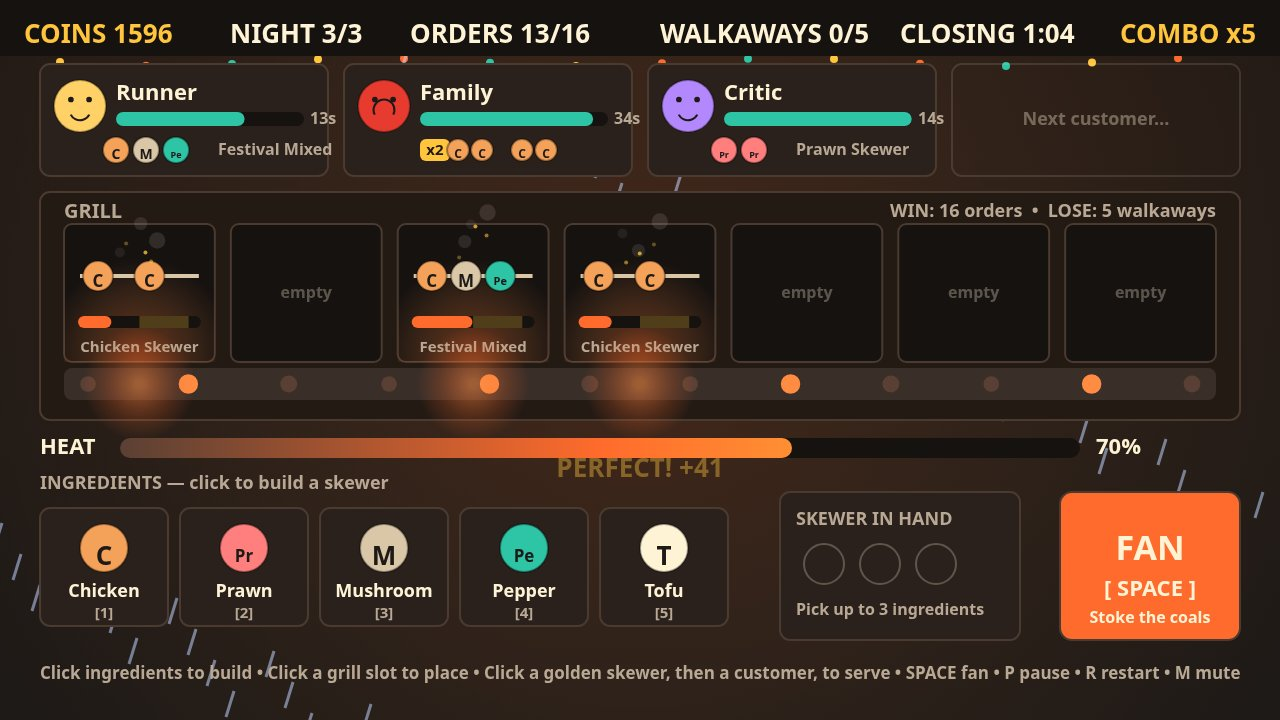
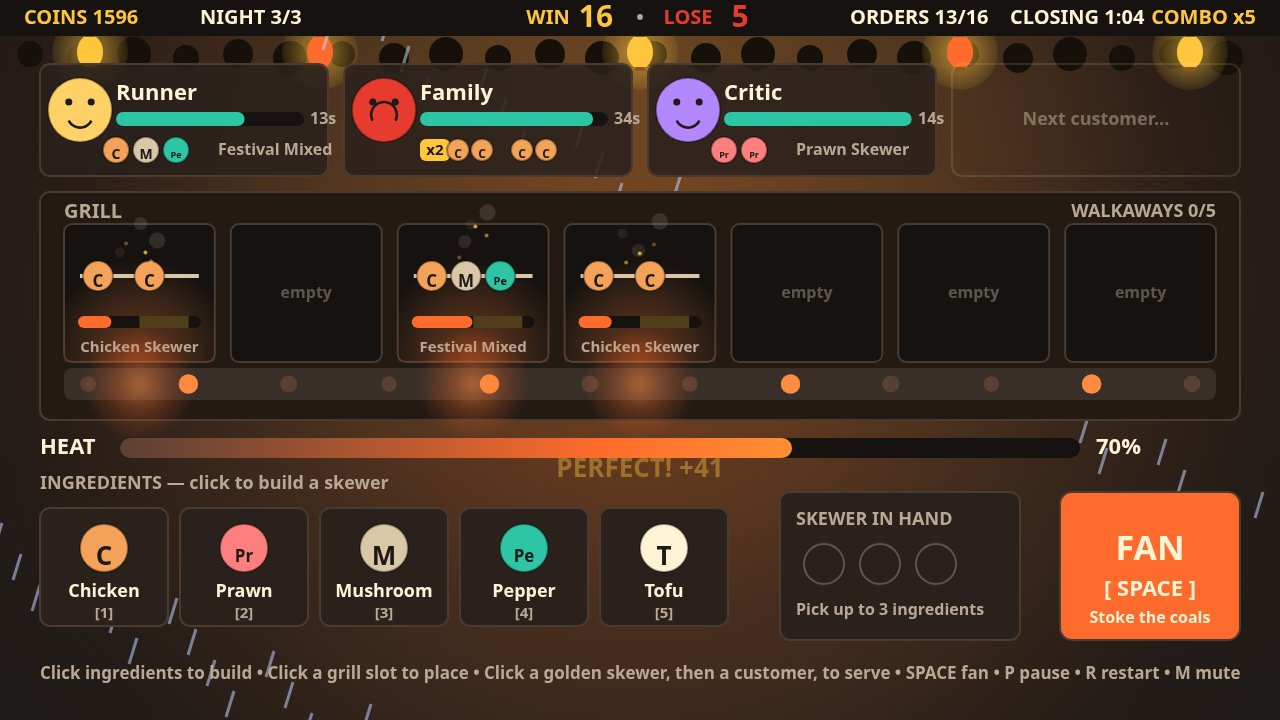
Hero cover rebalance (GLM audit #1 fix): festival mood leads, HUD compressed, WIN/LOSE prominent
- Slim hero HUD (36px): big central WIN 16 • LOSE 5 (numbers 30px, parseable
  in a 2s glance); walkaway count moves to the grill header.
- Hero frieze in the freed strip: paper lanterns with warm glows + a staggered
  crowd of dark silhouettes peeking over the customer row, rain over all.
- Customer cards slightly see-through (lantern glow shows through), faces
  bigger (r26 -> r32); stronger warm bloom so the grill is the focal point.
- Hero composition is gated on state.heroShot, set by shots.js for the rush
  shot only; live game and other shots render exactly as before (02/03/04
  byte-identical re-captures).
- Verified: node --check all 11 OK; autopilot WON 36 orders / 1766 coins /
  combo x5 / perfect 36/36 / burnt 0 / walkaways 0/5 (1766 reproduces exactly);
  live play-test zero console/page errors; main.ts exit 0, dossier text
  76,954 B; makefun check 4 passed / 1 failed (transcripts_present, expected)
  / 14 skipped / 5 at submission.

Changed region(s): [[0.0, 0.0, 1.0, 0.3056], [0.25, 0.5806, 0.75, 0.825]]

diff --git a/game/src/render.js b/game/src/render.js
@@ -1,7 +1,7 @@
 // Drawing only: the run's state and the current screen in, pixels out.
 // The 1280x720 playfield is scaled to fit the window and centred, the margin filled
 // with the backdrop colour. Flat shapes and canvas text for the HUD and the panels.
-import { DONENESS, FIELD, FONT, INGREDIENTS, LAYOUT, NIGHTS, PALETTE, grillSlotRects } from './config.js';
+import { DONENESS, FIELD, FONT, INGREDIENTS, LAYOUT, MAX_WALKAWAYS, NIGHTS, PALETTE, grillSlotRects } from './config.js';
 import { ingredientById, recipeById } from './orders.js';
 import { isBurnt, isGolden } from './grill.js';
 import { handRecipe } from './state.js';
@@ -101,7 +101,7 @@ export function createRenderer(canvas) {
     context.stroke();
   }
 
-  function drawBackdrop(state) {
+  function drawBackdrop(state, hero) {
     // Warm dark night-market backdrop with a soft glow and string lights.
     const g = context.createLinearGradient(0, 0, 0, FIELD.height);
     g.addColorStop(0, '#241b16');
@@ -117,14 +117,72 @@ export function createRenderer(canvas) {
     bloom.addColorStop(1, 'rgba(255,107,44,0)');
     context.fillStyle = bloom;
     context.fillRect(0, 0, FIELD.width, FIELD.height);
-    // String lights across the top, below the HUD.
-    for (let i = 0; i < 14; i += 1) {
-      const x = 60 + i * 86;
-      const y = 62 + Math.sin(i * 1.3) * 4;
-      context.fillStyle = i % 3 === 0 ? PALETTE.gold : i % 3 === 1 ? PALETTE.ember : PALETTE.jade;
-      context.beginPath();
-      context.arc(x, y, 4, 0, Math.PI * 2);
-      context.fill();
+    if (hero) {
+      // Hero cover: the grill is the warm focal point and the top of the frame
+      // glows with lantern light, so the festival mood (not the HUD) carries
+      // the cover. Both sit behind every panel, as the bloom does.
+      const grillGlow = context.createRadialGradient(FIELD.width / 2, 306, 40, FIELD.width / 2, 306, 620);
+      grillGlow.addColorStop(0, 'rgba(255,107,44,0.20)');
+      grillGlow.addColorStop(0.6, 'rgba(255,140,66,0.08)');
+      grillGlow.addColorStop(1, 'rgba(255,107,44,0)');
+      context.fillStyle = grillGlow;
+      context.fillRect(0, 0, FIELD.width, FIELD.height);
+      const topGlow = context.createRadialGradient(FIELD.width / 2, 100, 20, FIELD.width / 2, 100, 520);
+      topGlow.addColorStop(0, 'rgba(255,197,61,0.14)');
+      topGlow.addColorStop(1, 'rgba(255,197,61,0)');
+      context.fillStyle = topGlow;
+      context.fillRect(0, 0, FIELD.width, FIELD.height);
+    }
+    if (hero) {
+      // Hero frieze, in the strip the compressed HUD frees (y 36-64): the
+      // festival crowd behind the stall counter — dark heads peeking over the
+      // customer row, at staggered heights so the row reads as a crowd rather
+      // than a dotted border — with paper lanterns hanging above them.
+      // Deterministic (index-based), so the staged cover is the same every
+      // capture. The string lights are skipped here; the lanterns are the lights.
+      context.fillStyle = '#151009';
+      for (let i = 0; i < 24; i += 1) {
+        const x = 30 + i * 52;
+        const r = 13 + (i % 3) * 2;
+        const y = 54 + (i % 2) * 4;
+        context.beginPath();
+        context.arc(x, y, r, 0, Math.PI * 2);
+        context.fill();
+      }
+      const lanternX = [90, 320, 640, 960, 1190];
+      for (let i = 0; i < lanternX.length; i += 1) {
+        const x = lanternX[i];
+        const glow = context.createRadialGradient(x, 52, 4, x, 52, 44);
+        glow.addColorStop(0, 'rgba(255,197,61,0.55)');
+        glow.addColorStop(1, 'rgba(255,197,61,0)');
+        context.fillStyle = glow;
+        context.beginPath();
+        context.arc(x, 52, 38, 0, Math.PI * 2);
+        context.fill();
+        context.strokeStyle = 'rgba(255,243,214,0.6)';
+        context.lineWidth = 1.5;
+        context.beginPath();
+        context.moveTo(x, 36);
+        context.lineTo(x, 40);
+        context.stroke();
+        context.fillStyle = i % 2 === 0 ? PALETTE.gold : PALETTE.ember;
+        context.beginPath();
+        context.ellipse(x, 52, 13, 17, 0, 0, Math.PI * 2);
+        context.fill();
+        context.fillStyle = '#8a5a20';
+        context.fillRect(x - 5, 33, 10, 4);
+        context.fillRect(x - 5, 67, 10, 4);
+      }
+    } else {
+      // String lights across the top, below the HUD.
+      for (let i = 0; i < 14; i += 1) {
+        const x = 60 + i * 86;
+        const y = 62 + Math.sin(i * 1.3) * 4;
+        context.fillStyle = i % 3 === 0 ? PALETTE.gold : i % 3 === 1 ? PALETTE.ember : PALETTE.jade;
+        context.beginPath();
+        context.arc(x, y, 4, 0, Math.PI * 2);
+        context.fill();
+      }
     }
     // Weather: wind streaks on night 2, rain on night 3.
     if (state.night === 2) {
@@ -154,8 +212,29 @@ export function createRenderer(canvas) {
     }
   }
 
-  function drawHud(state) {
+  function drawHud(state, hero) {
     const h = LAYOUT.hud;
+    if (hero) {
+      // Hero cover: a slim bar (36px, not 56). The win/lose stakes are the
+      // centrepiece, in big numbers a 2-second glance can parse — WIN 16 •
+      // LOSE 5 — instead of a dense small line in the grill header. The
+      // walkaway count moves to the grill header, so nothing is lost.
+      context.fillStyle = '#161210';
+      context.fillRect(h.x, h.y, h.w, 36);
+      text(`COINS ${state.coins}`, 24, 18, 20, PALETTE.gold, 'left', 'middle');
+      text(`NIGHT ${state.night}/3`, 200, 18, 20, PALETTE.text, 'left', 'middle');
+      text('WIN', 548, 18, 20, PALETTE.gold, 'center', 'middle');
+      text(String(state.ordersTarget), 596, 18, 30, PALETTE.gold, 'center', 'middle');
+      text('•', 640, 18, 20, PALETTE.muted, 'center', 'middle');
+      text('LOSE', 688, 18, 20, PALETTE.danger, 'center', 'middle');
+      text(String(MAX_WALKAWAYS), 740, 18, 30, PALETTE.danger, 'center', 'middle');
+      text(`ORDERS ${state.ordersServed}/${state.ordersTarget}`, 850, 18, 20, PALETTE.text, 'left', 'middle');
+      text(`CLOSING ${fmtTime(state.nightTime)}`, 1010, 18, 20, state.nightTime <= 15 ? PALETTE.danger : PALETTE.text, 'left', 'middle');
+      if (state.combo >= 2) {
+        text(`COMBO x${state.combo}`, 1256, 18, 20, PALETTE.gold, 'right', 'middle');
+      }
+      return;
+    }
     context.fillStyle = '#161210';
     context.fillRect(h.x, h.y, h.w, h.h);
     text(`COINS ${state.coins}`, 24, 36, 26, PALETTE.gold, 'left', 'middle');
@@ -169,14 +248,18 @@ export function createRenderer(canvas) {
     }
   }
 
-  function drawCustomers(state) {
+  function drawCustomers(state, hero) {
     const c = LAYOUT.customers;
     for (let i = 0; i < state.customers.list.length; i += 1) {
       const cust = state.customers.list[i];
       const x = c.x + i * (c.cardW + c.gap);
       const y = c.y;
-      panel(x, y, c.cardW, c.h, PALETTE.panel);
-      face(x + 40, y + 42, 26, cust.color, cust.faceSeed);
+      // Hero cover: the cards are slightly see-through, so the lantern glow and
+      // rain behind them show through, and the faces are bigger — the people,
+      // not the panels, are the subject.
+      panel(x, y, c.cardW, c.h, hero ? 'rgba(42,33,28,0.88)' : PALETTE.panel);
+      if (hero) face(x + 40, y + 46, 32, cust.color, cust.faceSeed);
+      else face(x + 40, y + 42, 26, cust.color, cust.faceSeed);
       text(cust.label, x + 76, y + 30, 22, PALETTE.text, 'left', 'middle');
       // Patience bar: wide, colour-coded, drains as they wait.
       const frac = Math.max(0, cust.patience / cust.patienceMax);
@@ -243,11 +326,17 @@ export function createRenderer(canvas) {
     }
   }
 
-  function drawGrill(state) {
+  function drawGrill(state, hero) {
     const g = LAYOUT.grill;
     panel(g.x, g.y, g.w, g.h, '#241a14');
     text('GRILL', g.x + 24, g.y + 20, 20, PALETTE.muted, 'left', 'middle');
-    text(state.serving ? 'Serving — click a customer!' : `WIN: ${state.ordersTarget} orders  •  LOSE: 5 walkaways`, g.x + g.w - 24, g.y + 20, 18, state.serving ? PALETTE.gold : PALETTE.muted, 'right', 'middle');
+    if (hero) {
+      // The WIN/LOSE stakes live in the slim hero HUD now; the grill header
+      // carries the walkaway count instead, so nothing is lost.
+      text(state.serving ? 'Serving — click a customer!' : `WALKAWAYS ${state.walkaways}/${MAX_WALKAWAYS}`, g.x + g.w - 24, g.y + 20, 18, state.serving ? PALETTE.gold : PALETTE.muted, 'right', 'middle');
+    } else {
+      text(state.serving ? 'Serving — click a customer!' : `WIN: ${state.ordersTarget} orders  •  LOSE: 5 walkaways`, g.x + g.w - 24, g.y + 20, 18, state.serving ? PALETTE.gold : PALETTE.muted, 'right', 'middle');
+    }
     const rects = grillSlotRects(state.grill.slots.length);
     for (let i = 0; i < state.grill.slots.length; i += 1) {
       const slot = state.grill.slots[i];
@@ -558,10 +647,14 @@ export function createRenderer(canvas) {
       drawOver(state, best);
       return;
     }
-    drawBackdrop(state);
-    drawHud(state);
-    drawCustomers(state);
-    drawGrill(state);
+    // The rush cover is staged with the hero composition (state.heroShot, set by
+    // shots.js): festival mood first, HUD compressed, WIN/LOSE prominent. The
+    // live game and the other shots never set it, so they render as before.
+    const hero = state.heroShot === true;
+    drawBackdrop(state, hero);
+    drawHud(state, hero);
+    drawCustomers(state, hero);
+    drawGrill(state, hero);
     drawHeat(state);
     drawBins(state);
     drawHand(state);

diff --git a/game/src/shots.js b/game/src/shots.js
@@ -141,6 +141,10 @@ function playNight(state) {
  */
 export function stageShot(name, state) {
   startGame(state);
+  // The rush cover is staged with the hero composition (see render.js): the
+  // festival mood leads and the HUD is compressed. A presentation flag only —
+  // it changes no rule, and the live game never sets it.
+  state.heroShot = name === 'rush';
   if (name !== 'play' && name !== 'rush' && name !== 'end') {
     return { screen: 'title', best: 0 };
   }
